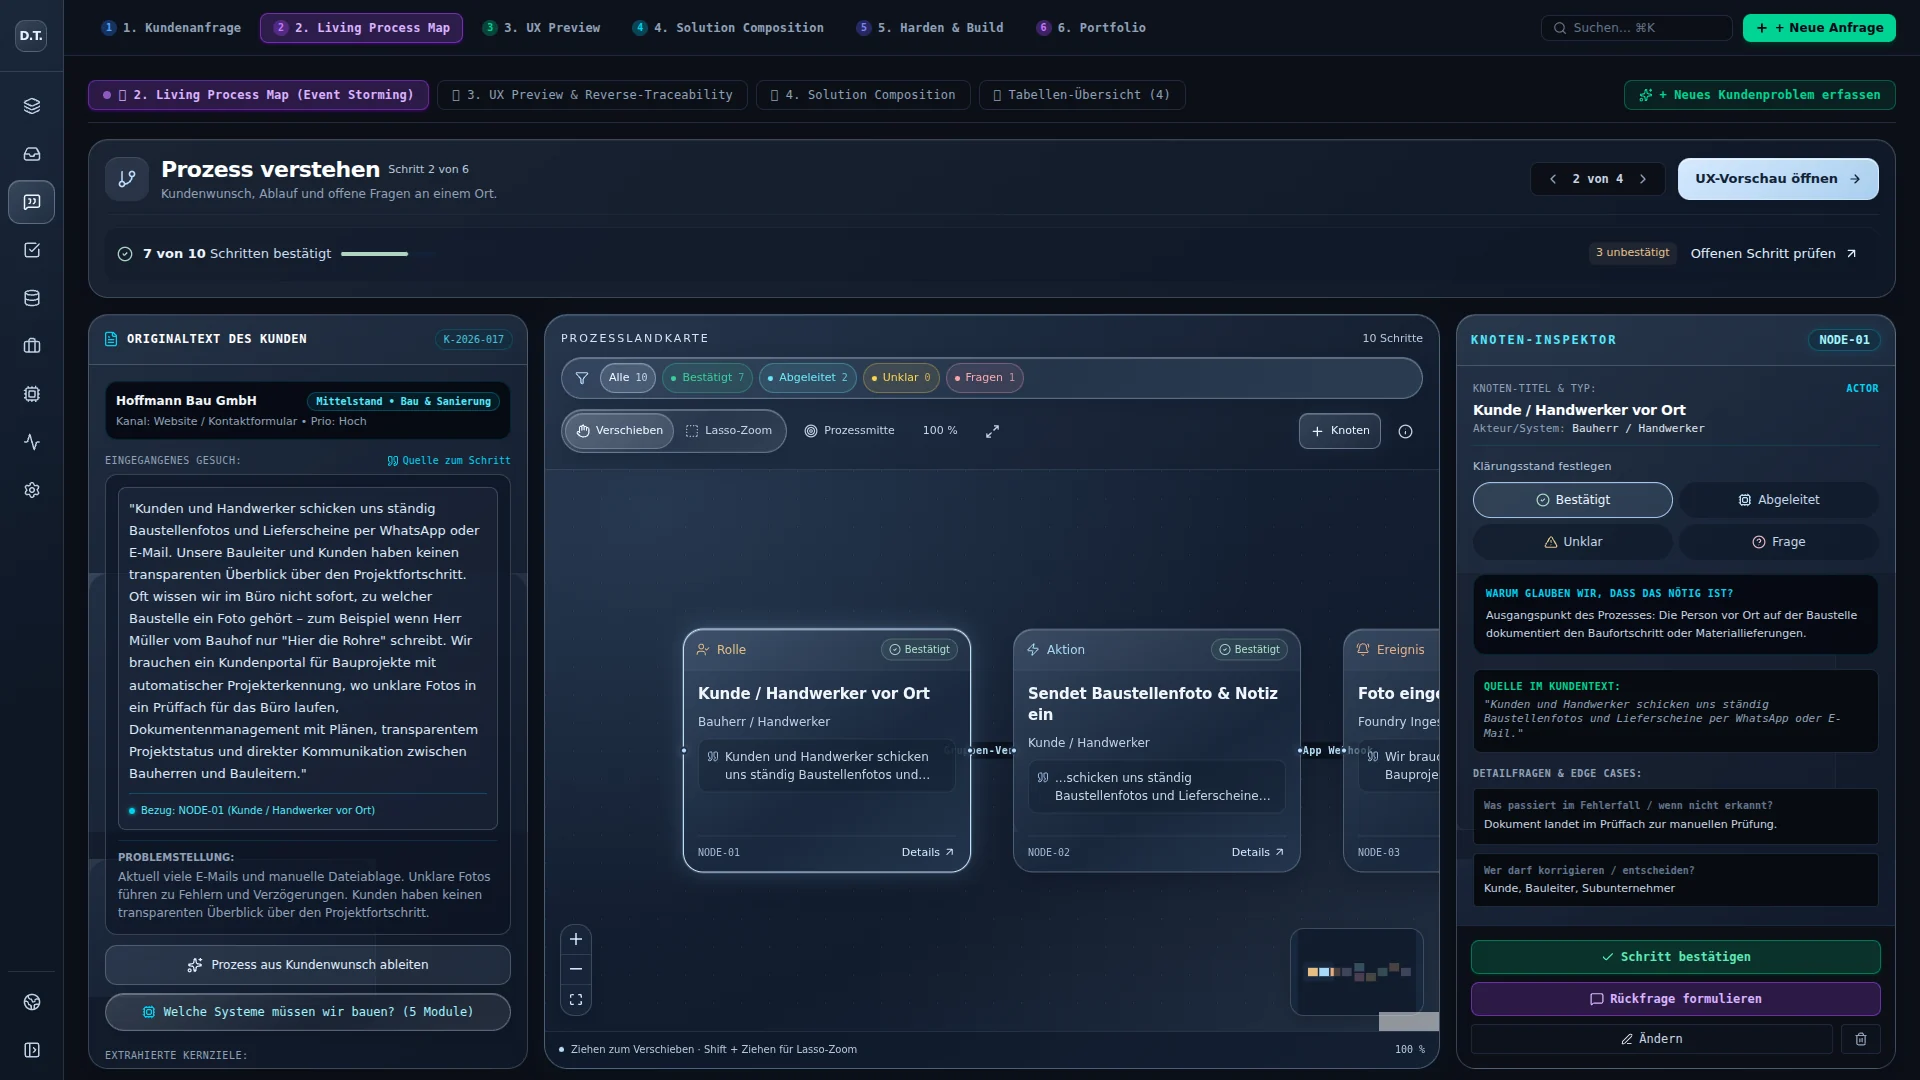
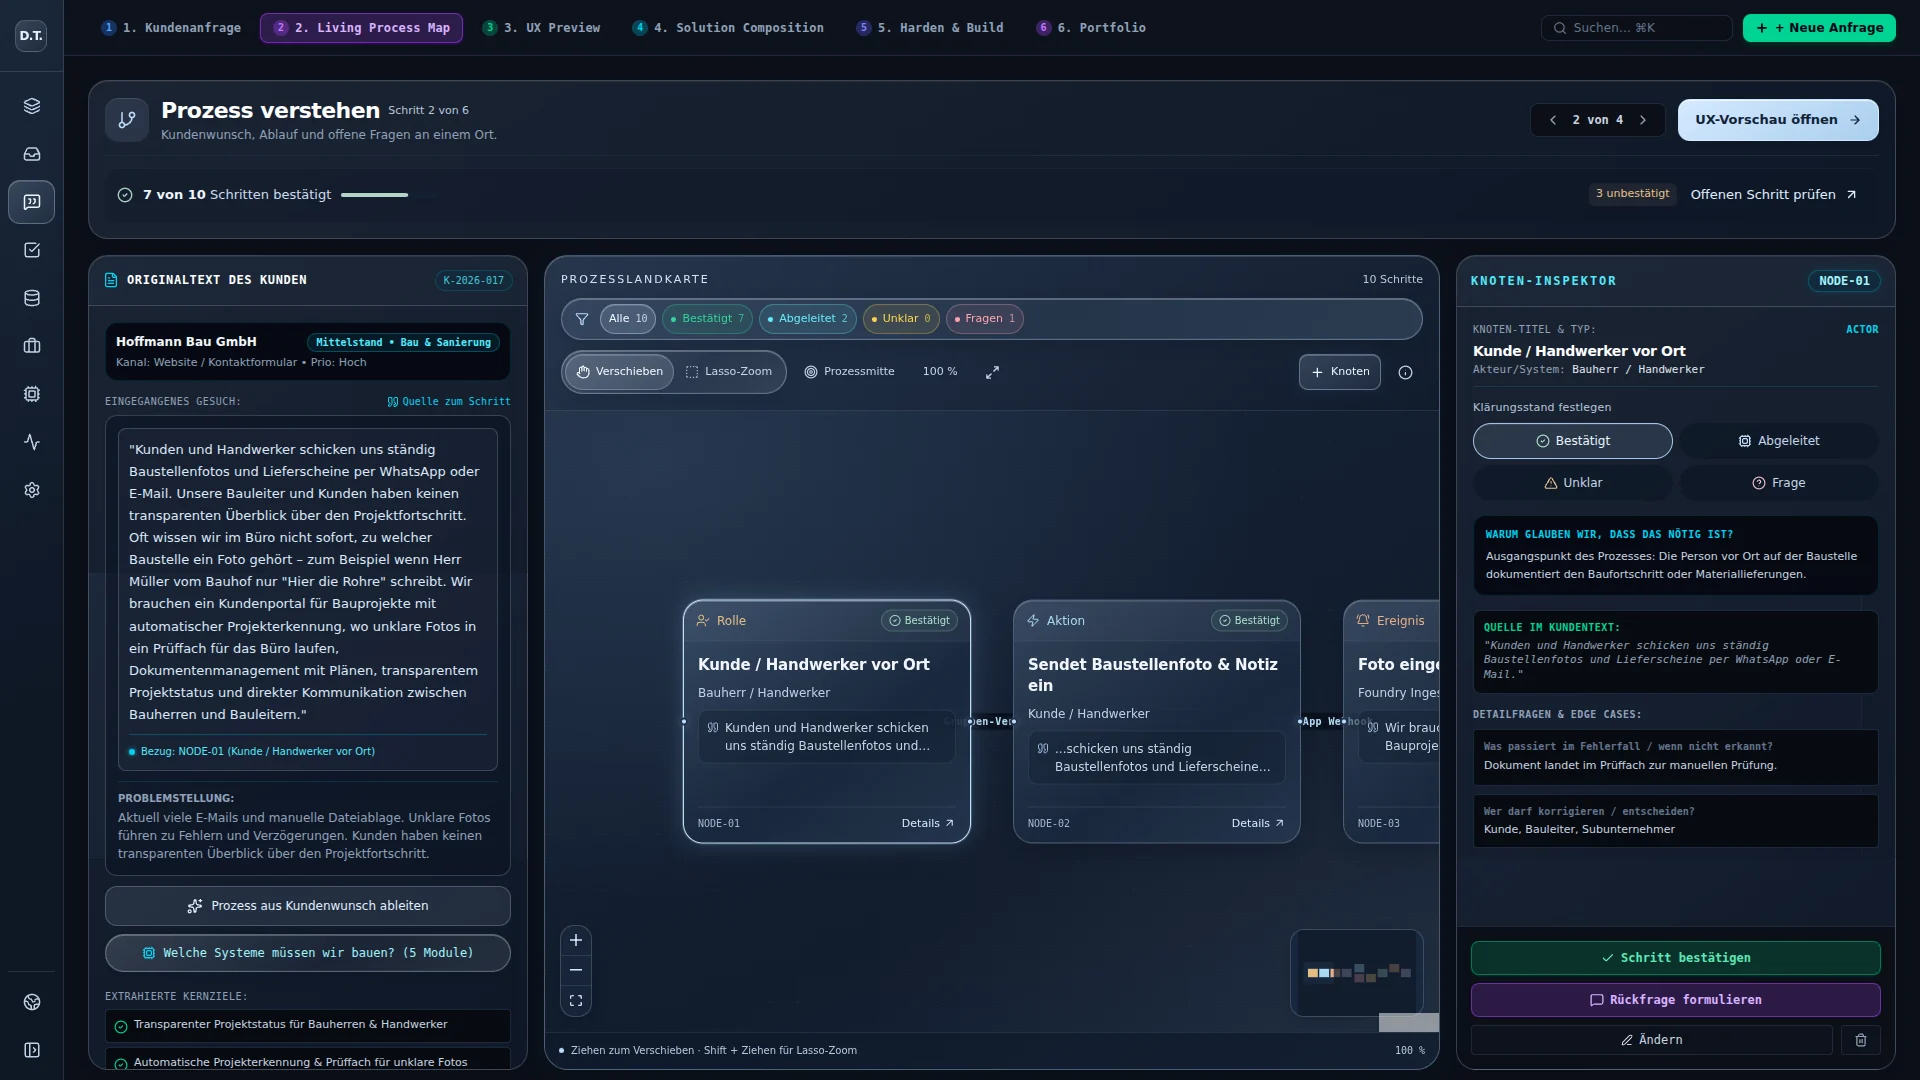
fix(ui): remove duplicate navigation from all request views

diff --git a/src/components/WorkstationView.tsx b/src/components/WorkstationView.tsx
@@ -11,7 +11,6 @@ import {
   Plus,
   SlidersHorizontal,
   Layers,
-  Sparkles,
   MessageSquareQuote,
   CheckCircle2,
   ChevronRight,
@@ -946,46 +945,6 @@ export const WorkstationView: React.FC<WorkstationViewProps> = ({
           ) : ((activeSection === 'requests' && requestsViewMode === 'process-map') || activeSection === 'process-map') ? (
             /* CASE 2A: LIVING PROCESS MAP (PHASE 1: VERSTEHEN - EVENT STORMING) */
             <div className="space-y-4">
-              <div className="flex flex-wrap items-center gap-2 border-b border-slate-800 pb-3">
-                <button
-                  type="button"
-                  onClick={() => setRequestsViewMode('process-map')}
-                  className="px-3.5 py-1.5 rounded-lg text-xs font-mono font-bold bg-purple-500/20 text-purple-300 border border-purple-500/40 flex items-center gap-2 cursor-pointer shadow-sm shadow-purple-950"
-                >
-                  <span className="w-2 h-2 rounded-full bg-purple-400 animate-pulse"></span>
-                  <span>🗺 2. Living Process Map (Event Storming)</span>
-                </button>
-                <button
-                  type="button"
-                  onClick={() => setRequestsViewMode('split')}
-                  className="px-3.5 py-1.5 rounded-lg text-xs font-mono text-slate-400 hover:text-white hover:bg-slate-800/60 border border-slate-800 transition-colors cursor-pointer flex items-center gap-1.5"
-                >
-                  <span>🖥 3. UX Preview &amp; Reverse-Traceability</span>
-                </button>
-                <button
-                  type="button"
-                  onClick={() => setRequestsViewMode('analysis')}
-                  className="px-3.5 py-1.5 rounded-lg text-xs font-mono text-slate-400 hover:text-white hover:bg-slate-800/60 border border-slate-800 transition-colors cursor-pointer"
-                >
-                  <span>📄 4. Solution Composition</span>
-                </button>
-                <button
-                  type="button"
-                  onClick={() => setRequestsViewMode('list')}
-                  className="px-3.5 py-1.5 rounded-lg text-xs font-mono text-slate-400 hover:text-white hover:bg-slate-800/60 border border-slate-800 transition-colors cursor-pointer"
-                >
-                  <span>📋 Tabellen-Übersicht ({clientRequests.length})</span>
-                </button>
-                <button
-                  type="button"
-                  onClick={() => setShowRequestIntake(true)}
-                  className="sm:ml-auto px-3.5 py-1.5 rounded-lg text-xs font-mono text-emerald-400 hover:text-emerald-300 border border-emerald-500/40 bg-emerald-500/10 hover:bg-emerald-500/20 transition-colors flex items-center gap-1.5 cursor-pointer font-semibold"
-                >
-                  <Sparkles className="w-3.5 h-3.5" />
-                  <span>+ Neues Kundenproblem erfassen</span>
-                </button>
-              </div>
-
               <LivingProcessMapView
                 request={selectedRequest || clientRequests[0]}
                 allRequests={clientRequests}
@@ -1028,46 +987,6 @@ export const WorkstationView: React.FC<WorkstationViewProps> = ({
           ) : activeSection === 'requests' && requestsViewMode === 'split' ? (
             /* CASE 2B: FOUNDRY OS LIVE SPLIT VIEW (Matching User Screenshot & Prompt) */
             <div className="space-y-4">
-              <div className="flex flex-wrap items-center gap-2 border-b border-slate-800 pb-3">
-                <button
-                  type="button"
-                  onClick={() => setRequestsViewMode('process-map')}
-                  className="px-3.5 py-1.5 rounded-lg text-xs font-mono text-slate-400 hover:text-white hover:bg-slate-800/60 border border-slate-800 transition-colors cursor-pointer flex items-center gap-1.5"
-                >
-                  <span>🗺 2. Living Process Map</span>
-                </button>
-                <button
-                  type="button"
-                  onClick={() => setRequestsViewMode('split')}
-                  className="px-3.5 py-1.5 rounded-lg text-xs font-mono font-bold bg-emerald-500/20 text-emerald-300 border border-emerald-500/40 flex items-center gap-2 cursor-pointer shadow-sm shadow-emerald-950"
-                >
-                  <span className="w-2 h-2 rounded-full bg-emerald-400 animate-pulse"></span>
-                  <span>🖥 3. UX Preview &amp; Fließband ({selectedRequest?.company || selectedRequest?.customerName || selectedRequestId})</span>
-                </button>
-                <button
-                  type="button"
-                  onClick={() => setRequestsViewMode('analysis')}
-                  className="px-3.5 py-1.5 rounded-lg text-xs font-mono text-slate-400 hover:text-white hover:bg-slate-800/60 border border-slate-800 transition-colors cursor-pointer"
-                >
-                  <span>📄 4. Solution Composition</span>
-                </button>
-                <button
-                  type="button"
-                  onClick={() => setRequestsViewMode('list')}
-                  className="px-3.5 py-1.5 rounded-lg text-xs font-mono text-slate-400 hover:text-white hover:bg-slate-800/60 border border-slate-800 transition-colors cursor-pointer"
-                >
-                  <span>📋 Tabellen-Übersicht ({clientRequests.length})</span>
-                </button>
-                <button
-                  type="button"
-                  onClick={() => setShowRequestIntake(true)}
-                  className="sm:ml-auto px-3.5 py-1.5 rounded-lg text-xs font-mono text-emerald-400 hover:text-emerald-300 border border-emerald-500/40 bg-emerald-500/10 hover:bg-emerald-500/20 transition-colors flex items-center gap-1.5 cursor-pointer font-semibold"
-                >
-                  <Sparkles className="w-3.5 h-3.5" />
-                  <span>+ Neues Kundenproblem erfassen</span>
-                </button>
-              </div>
-
               <LiveFoundryIntakeSplitView
                 requests={clientRequests}
                 selectedRequestId={selectedRequestId}
@@ -1088,39 +1007,6 @@ export const WorkstationView: React.FC<WorkstationViewProps> = ({
           ) : activeSection === 'requests' && requestsViewMode === 'analysis' && selectedRequest ? (
             /* CASE 2B: DETAILED REQUEST ANALYSIS SCREEN (Section 4 & 5-11 of prompt) */
             <div className="space-y-4">
-              <div className="flex flex-wrap items-center gap-2 border-b border-slate-800 pb-3">
-                <button
-                  type="button"
-                  onClick={() => setRequestsViewMode('split')}
-                  className="px-3.5 py-1.5 rounded-lg text-xs font-mono text-slate-400 hover:text-white hover:bg-slate-800/60 border border-slate-800 transition-colors cursor-pointer flex items-center gap-1.5"
-                >
-                  <span>← 🖥 Zurück zur Live-Komposition</span>
-                </button>
-                <button
-                  type="button"
-                  onClick={() => setRequestsViewMode('analysis')}
-                  className="px-3.5 py-1.5 rounded-lg text-xs font-mono font-bold bg-cyan-500/20 text-cyan-300 border border-cyan-500/40 flex items-center gap-2 cursor-pointer shadow-sm shadow-cyan-950"
-                >
-                  <span>📄 Detaillierte Analyse &amp; SaaS-Komposition ({selectedRequest.id})</span>
-                  <span className="w-2 h-2 rounded-full bg-cyan-400 animate-pulse"></span>
-                </button>
-                <button
-                  type="button"
-                  onClick={() => setRequestsViewMode('list')}
-                  className="px-3.5 py-1.5 rounded-lg text-xs font-mono text-slate-400 hover:text-white hover:bg-slate-800/60 border border-slate-800 transition-colors cursor-pointer"
-                >
-                  <span>📋 Alle Kundenanfragen ({clientRequests.length})</span>
-                </button>
-                <button
-                  type="button"
-                  onClick={() => setShowRequestIntake(true)}
-                  className="sm:ml-auto px-3.5 py-1.5 rounded-lg text-xs font-mono text-emerald-400 hover:text-emerald-300 border border-emerald-500/40 bg-emerald-500/10 hover:bg-emerald-500/20 transition-colors flex items-center gap-1.5 cursor-pointer font-semibold"
-                >
-                  <Sparkles className="w-3.5 h-3.5" />
-                  <span>+ Neues Kundenproblem lösen</span>
-                </button>
-              </div>
-
               <RequestAnalysisView
                 request={selectedRequest}
                 onApproveAndBuild={handleApproveAndBuild}
@@ -1148,42 +1034,6 @@ export const WorkstationView: React.FC<WorkstationViewProps> = ({
                 {/* REQUESTS LIST SECTION */}
                 {activeSection === 'requests' && (
                   <section className="space-y-4">
-                    <div className="flex flex-wrap items-center gap-2 border-b border-slate-800 pb-3">
-                      <button
-                        type="button"
-                        onClick={() => setRequestsViewMode('split')}
-                        className="px-3.5 py-1.5 rounded-lg text-xs font-mono text-slate-400 hover:text-white hover:bg-slate-800/60 border border-slate-800 transition-colors cursor-pointer flex items-center gap-1.5"
-                      >
-                        <span className="w-2 h-2 rounded-full bg-emerald-400"></span>
-                        <span>🖥 Live-Komposition &amp; Fließband</span>
-                      </button>
-                      <button
-                        type="button"
-                        onClick={() => {
-                          setSelectedRequestId(selectedRequest?.id || 'REQ-2026-017');
-                          setRequestsViewMode('analysis');
-                        }}
-                        className="px-3.5 py-1.5 rounded-lg text-xs font-mono text-slate-400 hover:text-white hover:bg-slate-800/60 border border-slate-800 transition-colors cursor-pointer flex items-center gap-1.5"
-                      >
-                        <span>📄 Detaillierte Analyse &amp; Manifest</span>
-                      </button>
-                      <button
-                        type="button"
-                        onClick={() => setRequestsViewMode('list')}
-                        className="px-3.5 py-1.5 rounded-lg text-xs font-mono font-bold bg-emerald-500/20 text-emerald-300 border border-emerald-500/40 flex items-center gap-2 cursor-pointer shadow-sm shadow-emerald-950"
-                      >
-                        <span>📋 Alle Kundenanfragen ({clientRequests.length})</span>
-                      </button>
-                      <button
-                        type="button"
-                        onClick={() => setShowRequestIntake(true)}
-                        className="sm:ml-auto px-3.5 py-1.5 rounded-lg text-xs font-mono text-emerald-400 hover:text-emerald-300 border border-emerald-500/40 bg-emerald-500/10 hover:bg-emerald-500/20 transition-colors flex items-center gap-1.5 cursor-pointer font-semibold"
-                      >
-                        <Sparkles className="w-3.5 h-3.5" />
-                        <span>+ Neues Kundenproblem lösen</span>
-                      </button>
-                    </div>
-
                     <div className="flex items-center justify-between">
                       <div>
                         <h2 className="text-base font-semibold text-white">

diff --git a/src/styles/process-workspace.css b/src/styles/process-workspace.css
@@ -170,7 +170,7 @@
 .dt-canvas-feedback { position: absolute; z-index: 8; bottom: 18px; left: 50%; transform: translateX(-50%); display: flex; align-items: center; gap: 8px; width: max-content; max-width: calc(100% - 32px); padding: 10px 14px; border-radius: 999px; background-color: rgba(30, 48, 72, 0.88); color: #edf5ff; font-size: 12px; pointer-events: none; }
 
 @media (min-width: 1280px) {
-  .dt-process-layout { height: calc(100dvh - 325px); min-height: 640px; }
+  .dt-process-layout { height: calc(100dvh - 265px); min-height: 640px; }
 }
 
 @media (max-width: 1279px) {

diff --git a/docs/compact-navigation-review.md b/docs/compact-navigation-review.md
@@ -6,6 +6,8 @@ Ausgangspunkt: `75534097c967560031079f051011f64fb9f71c21` auf `main`.
 
 Die globale „Foundry Flow“-Leiste bot fest verdrahtete Zugriffe auf Referenzansichten, darunter das Hoffmann-Bau-Beispiel. Seitenleiste und sechsstufige Prozessnavigation erschließen diese Arbeitsbereiche bereits. Die zusätzliche Leiste und ihre Demo-Routingzustände wurden entfernt; der Wechsel zur Homepage ist über das Globus-Symbol in der Seitenleiste erreichbar. Von dort führen die vorhandenen Einstiege zurück in die Workstation.
 
+Ergänzung auf Basis von `cce678b27993034efad62efd629ba9f602b28c4a`: Auch die zweite Prozess-Tab-Leiste ist vollständig entfernt, in Prozesslandkarte, UX-Vorschau, Detailanalyse und Anfragenliste. Die sechs Schritte oben öffnen weiterhin dieselben Ansichten. „Tabellen-Übersicht“ entspricht dabei Schritt 1 „Kundenanfrage“. Der globale Button „Neue Anfrage“ übernimmt den bisherigen zusätzlichen Einstieg in das Kundenformular. Die frei gewordene Höhe wird der Prozessfläche zugeschlagen.
+
 ## Verhalten
 
 - Auf Desktop-Bildschirmen ab 1024 Pixel startet die Seitenleiste als 64 Pixel breite Symbolleiste; ausgeklappt ist sie 240 Pixel breit. Gegenüber der bisherigen 250-Pixel-Leiste gewinnt die kompakte Ansicht 186 Pixel Arbeitsbreite. Das Entfernen der oberen Leiste gibt zusätzlich 40 Pixel Höhe frei; die Prozessfläche nutzt diese Höhe mit.
@@ -27,4 +29,4 @@ Der Ausschnitt zeigt die ausgeklappte Seitenleiste. Auf kleinen Bildschirmen öf
 
 ![Mobile Navigation](compact-navigation-mobile.webp)
 
-Die bestehende Vite-Warnung zu großen JavaScript-Chunks bleibt bestehen. Die lokale Suche und die wiederholte lokale Prozess-Tab-Leiste sind eigenständige, zuvor festgestellte offene Punkte und wurden in dieser Änderung nicht überarbeitet.
+Die bestehende Vite-Warnung zu großen JavaScript-Chunks bleibt bestehen. Die lokale Suche ist ein eigenständiger, zuvor festgestellter offener Punkt und wurde in dieser Änderung nicht überarbeitet.
